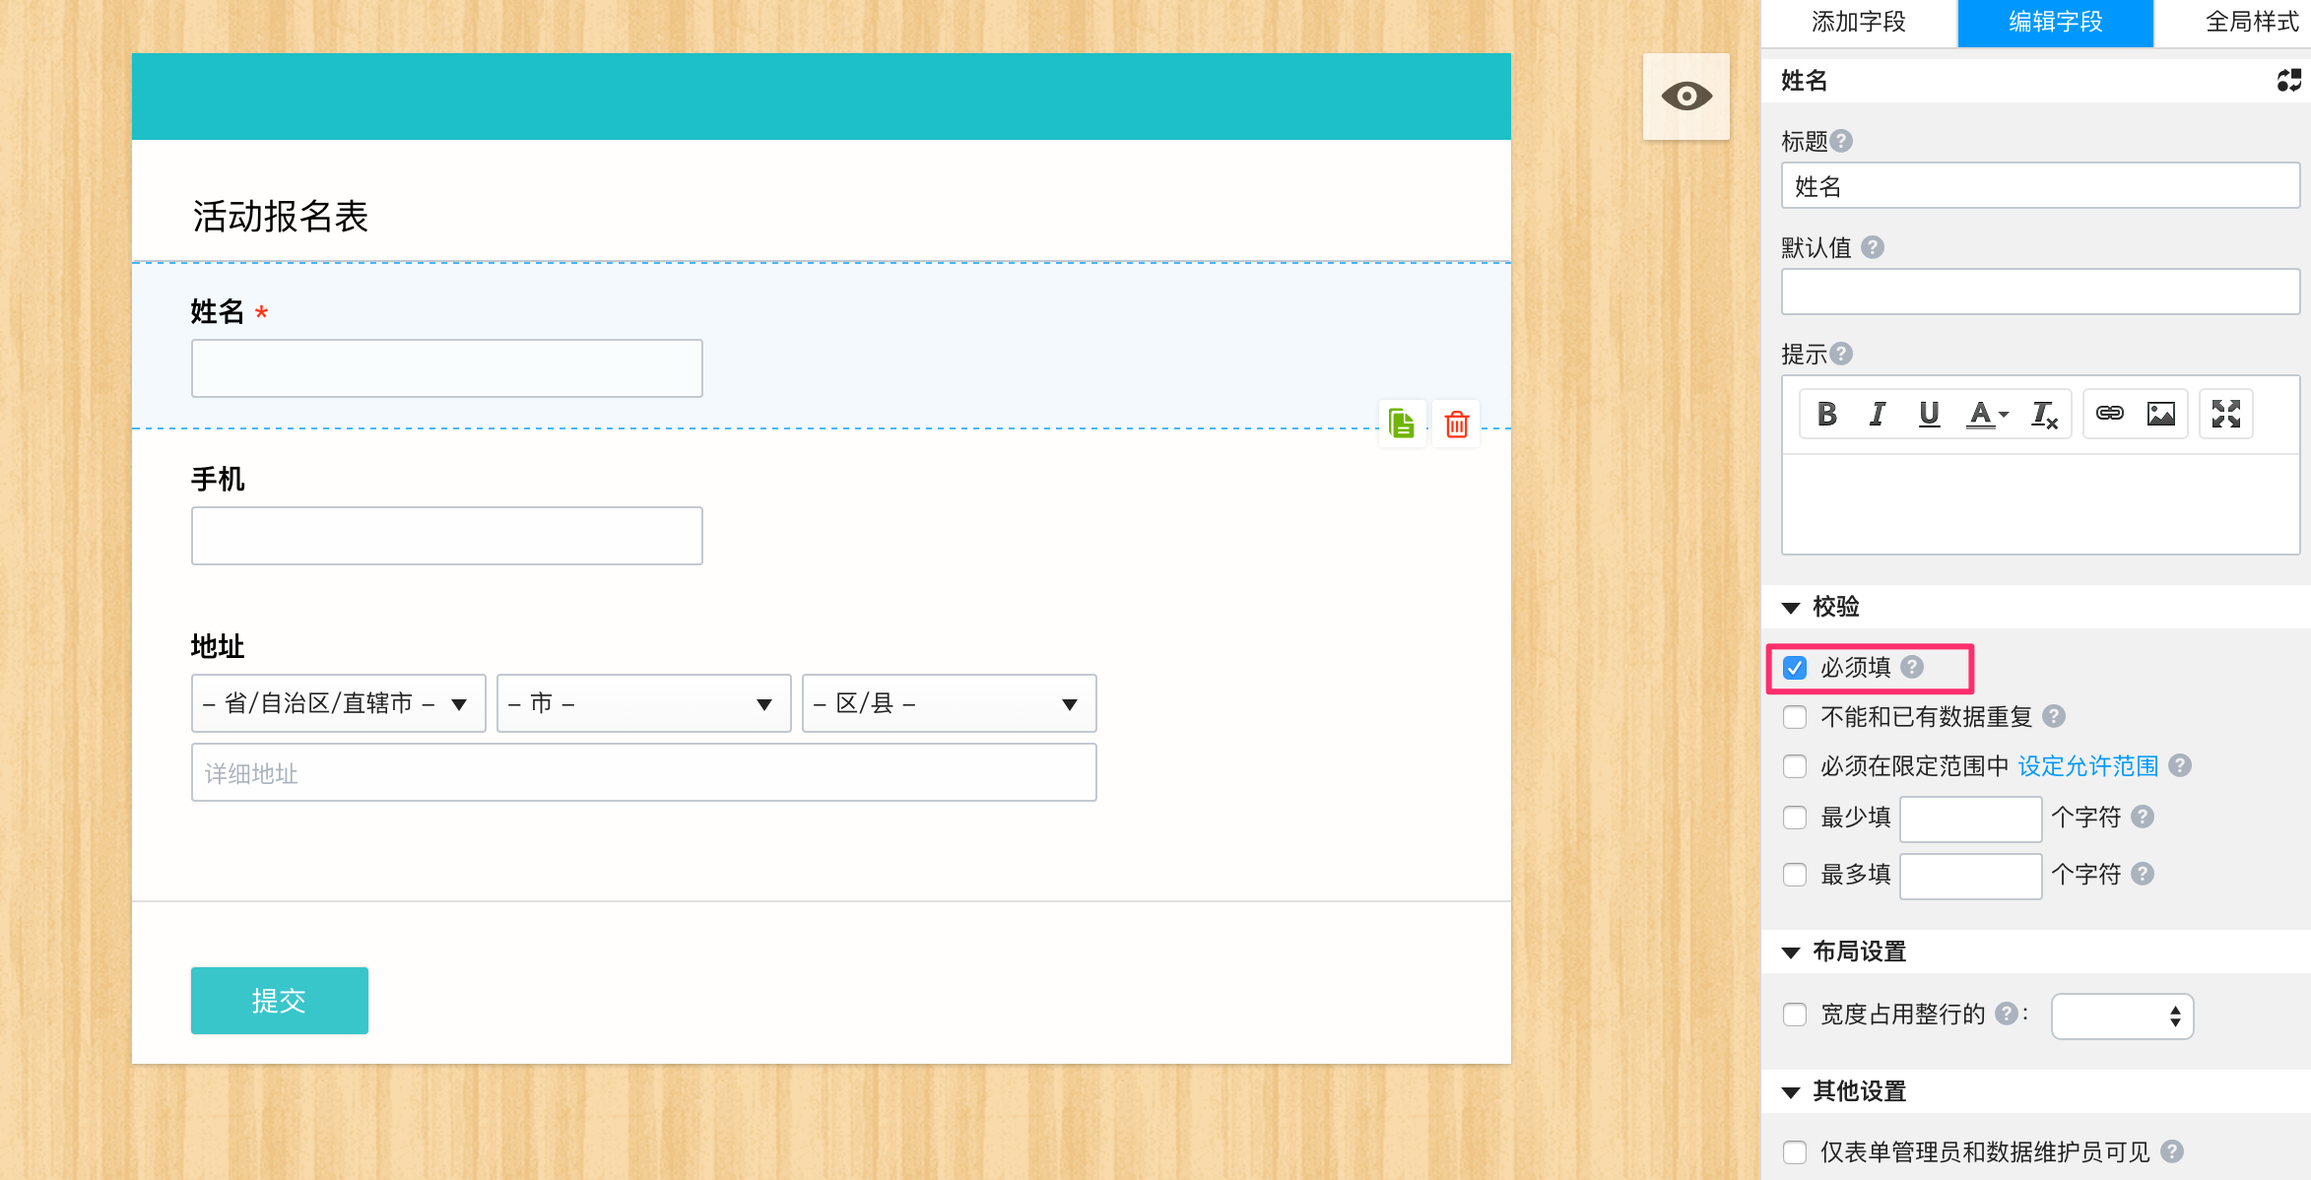
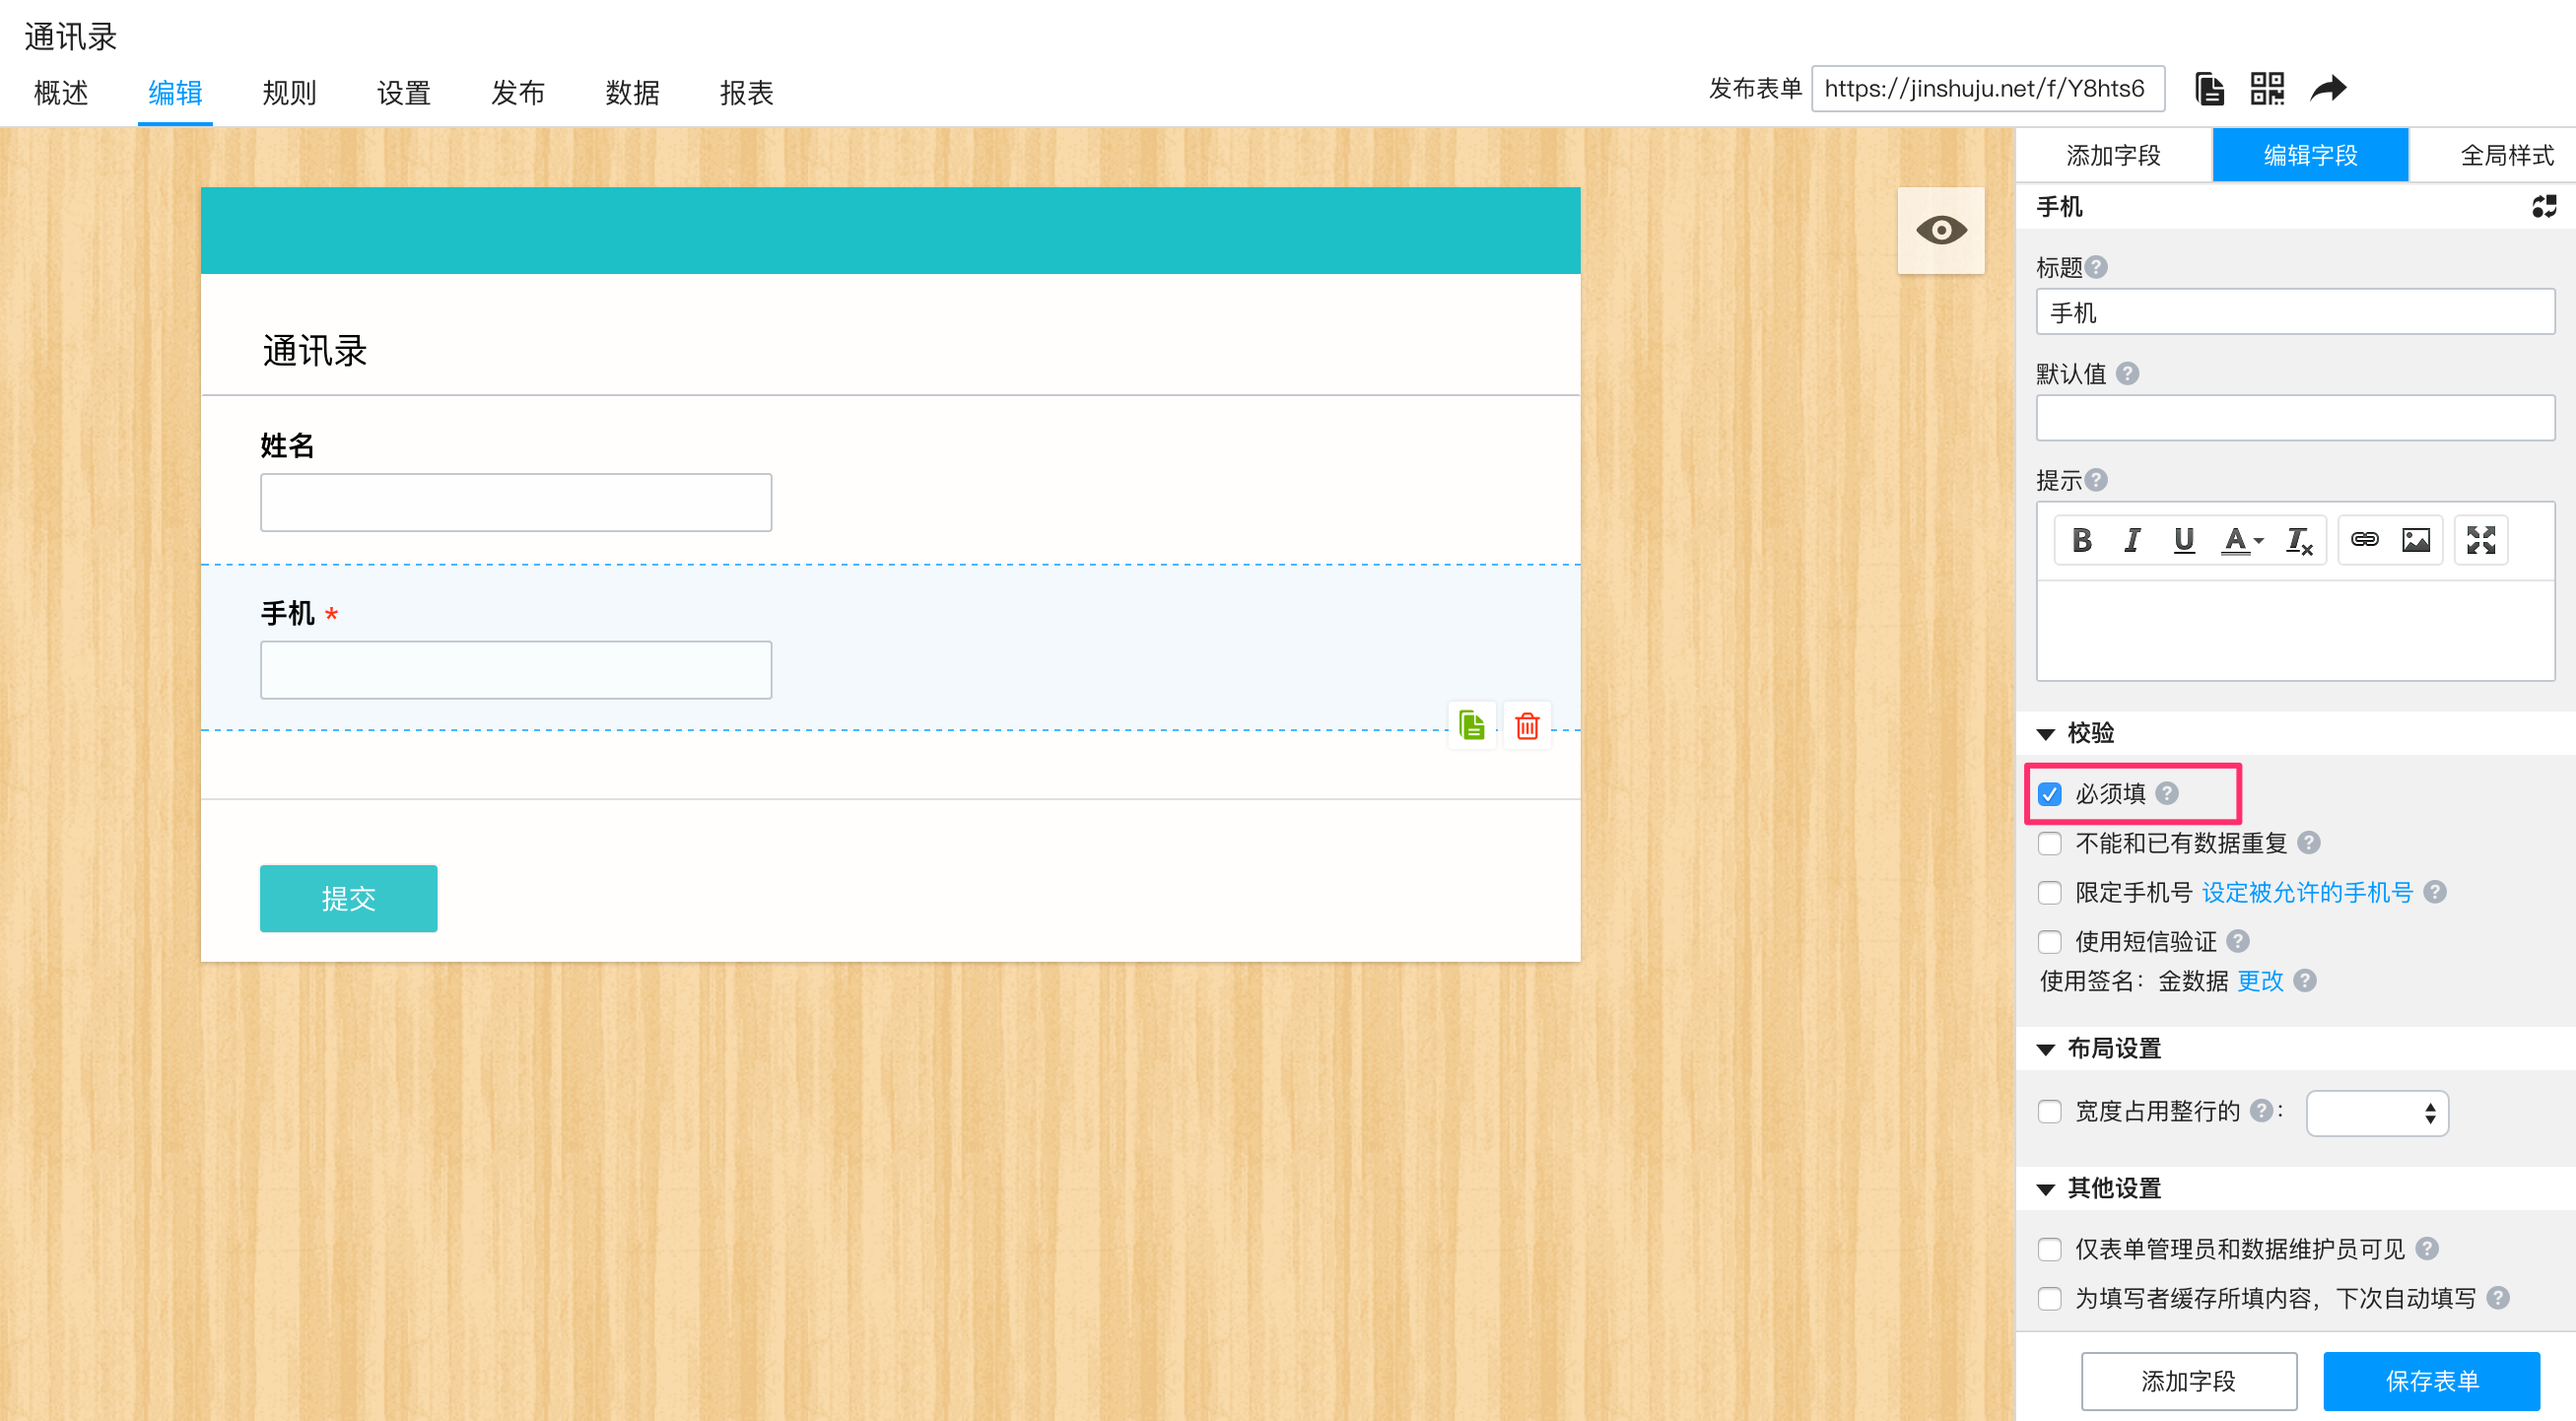
change create form

diff --git a/_posts/2014-2-7-create-form.md b/_posts/2014-2-7-create-form.md
@@ -6,37 +6,34 @@ category: quickstart
 tags: video
 ---
 
-金数据向您提供了多种表单创建方式，无论您想要创建哪种表单，都可以找到快速创建的方法。如果您是新注册的用户，在注册成功后您
-
-### 引导式示例
-
-如果您是新注册的用户，在注册成功后您就可以看到视频引导。您可以通过本视频快速学会如何创建表单。
+金数据向您提供了多种表单创建方式，无论您想要创建哪种表单，都可以找到快速创建的方法。如果您是新注册的用户，在注册成功后您就可以看到视频引导。您可以通过本视频快速学会如何创建表单。
 	![](/images/create-form-1.png)
 
-### 从模板创建表单
+当然，您也可以直接跳过学习视频直接创建表单，进入主页面，点击左上方的加号，选择“创建空白表单”，您就可以创建自己的表单了，下面将带领大家创建一个通讯录。
 
-金数据为大家挑选出了一些常用表单供大家快速创建表单，您只需要进入主页，然后做如下操作。
+1. 进入主页面，点击左上方的加号。
+    ![](/images/create-form-02.png)
 
-1. 进入主页面，点击左上方的加号，选择“从模版创建表单”。
-	![](/images/create-form-2.png)
+2. 在弹出的选择框中，选择“创建空白表单”。
+    ![](/images/create-form-3.png)
 
-2. 挑选出你需要的表单，或者和你需求相近的表单，然后点击“选用”。
-	![](/images/create-form-4.jpg)
+3. 然后，你就可以为你的表单输入名称以及描述，让用户清晰的知道表单的用途以及相关说明。
+	![](/images/create-form-03.png)
 
-3. 选用后，您可以根据自己的需求来需改表单，[点这里](http://help.jinshuju.net/articles/fields-editing.html)查看如何移动、复制与删除字段。
-
-### 创建空白表单
-
-您也可以自己创建表单，进入主页面，点击左上方的加号，选择“创建空白表单”，您就可以创建自己的表单了，下面将带领大家创建一个通讯录。
-
-1. 进入主页面，点击左上方的加号，选择“创建空白表单”。
-	![](/images/create-form-3.png)
-
-2. 然后，你就可以为你的表单输入名称以及描述，可以看到右侧编辑框的32种不同的字段，点击或者拖动都可以添加字段为表单添加不同的字段。
+4. 接下来就可以添加字段了，添加字段后方可让收集信息。您可以看到右侧编辑框的32种不同的字段，每种字段都有相关的不同用法，点击或者拖动都可以添加字段为表单添加不同的字段。
 	![](/images/create-form-6.png)
 
-3. 对于必须要填写的字段，可以设置“必须填”。
+5. 比如我们要创建一个通讯录，这里我们就需要添加“姓名”以及“手机”字段。可以看到编辑框有联系信息字段，点击分别添加“姓名”以及“手机”字段。
+	![](/images/create-form-05.png)
+
+6. 对于必须要填写的字段，可以点击此字段，然后勾选“必须填”。
 	![](/images/create-form-5.png)
 
-创建完表单记得保存后，保存后[点这里](http://help.jinshuju.net/articles/publish-form.html)查看如何把表单发布出去。
+7. 表单做完后，点击右下角的“保存表单”。
+	![](/images/create-form-7.png)
 
+8. 表单完成后，你可以直接在右上角复制链接或者以二维码的方式发布到任何地方。
+	![](/images/create-form-8.png)
+
+
+关于更详细的发布表单，[点这里](http://help.jinshuju.net/articles/share-to-wechat.html)查看。
